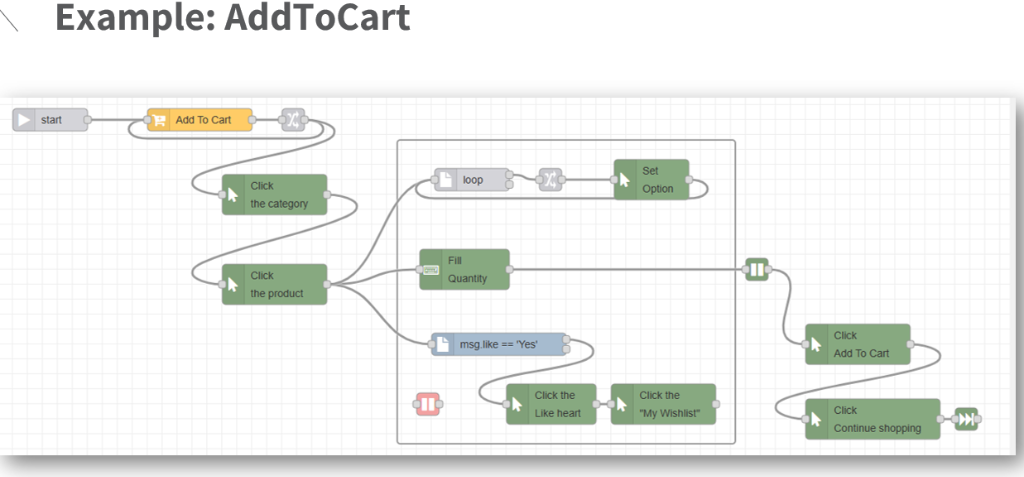
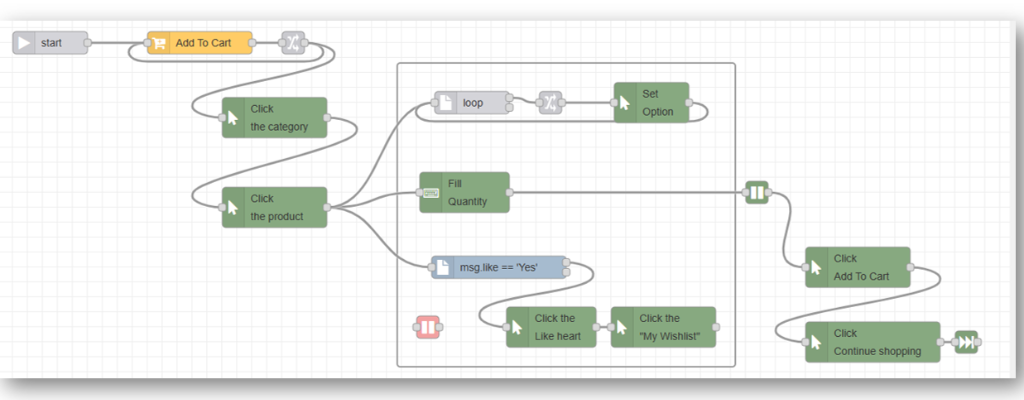
feat: Add online store login and add-to-cart images along with a script to crop image headers.

diff --git a/crop_images.py b/crop_images.py
@@ -1,0 +1,79 @@
+from PIL import Image
+import os
+
+def crop_header(image_path):
+    try:
+        img = Image.open(image_path)
+        img = img.convert("RGBA")
+        width, height = img.size
+        pixels = img.load()
+
+        print(f"Processing {image_path} ({width}x{height})")
+
+        # Find the first non-white row (top of text)
+        first_content_row = 0
+        for y in range(height):
+            row_has_content = False
+            for x in range(width):
+                r, g, b, a = pixels[x, y]
+                # Check if pixel is not white (assuming white background)
+                if (r < 250 or g < 250 or b < 250) and a > 0:
+                    row_has_content = True
+                    break
+            if row_has_content:
+                first_content_row = y
+                break
+        
+        print(f"First content row (text top): {first_content_row}")
+
+        # Find the next white row (bottom of text)
+        text_bottom_row = first_content_row
+        for y in range(first_content_row, height):
+            row_is_white = True
+            for x in range(width):
+                r, g, b, a = pixels[x, y]
+                if (r < 250 or g < 250 or b < 250) and a > 0:
+                    row_is_white = False
+                    break
+            if row_is_white:
+                text_bottom_row = y
+                break
+        
+        print(f"Text bottom row: {text_bottom_row}")
+
+        # Find the next non-white row (top of diagram)
+        diagram_top_row = text_bottom_row
+        for y in range(text_bottom_row, height):
+            row_has_content = False
+            for x in range(width):
+                r, g, b, a = pixels[x, y]
+                if (r < 250 or g < 250 or b < 250) and a > 0:
+                    row_has_content = True
+                    break
+            if row_has_content:
+                diagram_top_row = y
+                break
+        
+        print(f"Diagram top row: {diagram_top_row}")
+
+        # Crop
+        # Add a small buffer above the diagram if needed, or just crop exactly
+        crop_y = max(0, diagram_top_row - 10) # 10px padding
+        
+        # Check if we actually found a gap
+        if crop_y <= first_content_row:
+             print("Warning: Could not distinguish text from diagram. Skipping crop.")
+             return
+
+        cropped_img = img.crop((0, crop_y, width, height))
+        cropped_img.save(image_path)
+        print(f"Successfully cropped {image_path}")
+
+    except Exception as e:
+        print(f"Error processing {image_path}: {e}")
+
+base_dir = r"c:\Users\geraw\provengo-seminar\public\slides_images"
+images = ["online_store_login.png", "online_store_add_to_cart.png"]
+
+for img_name in images:
+    crop_header(os.path.join(base_dir, img_name))
